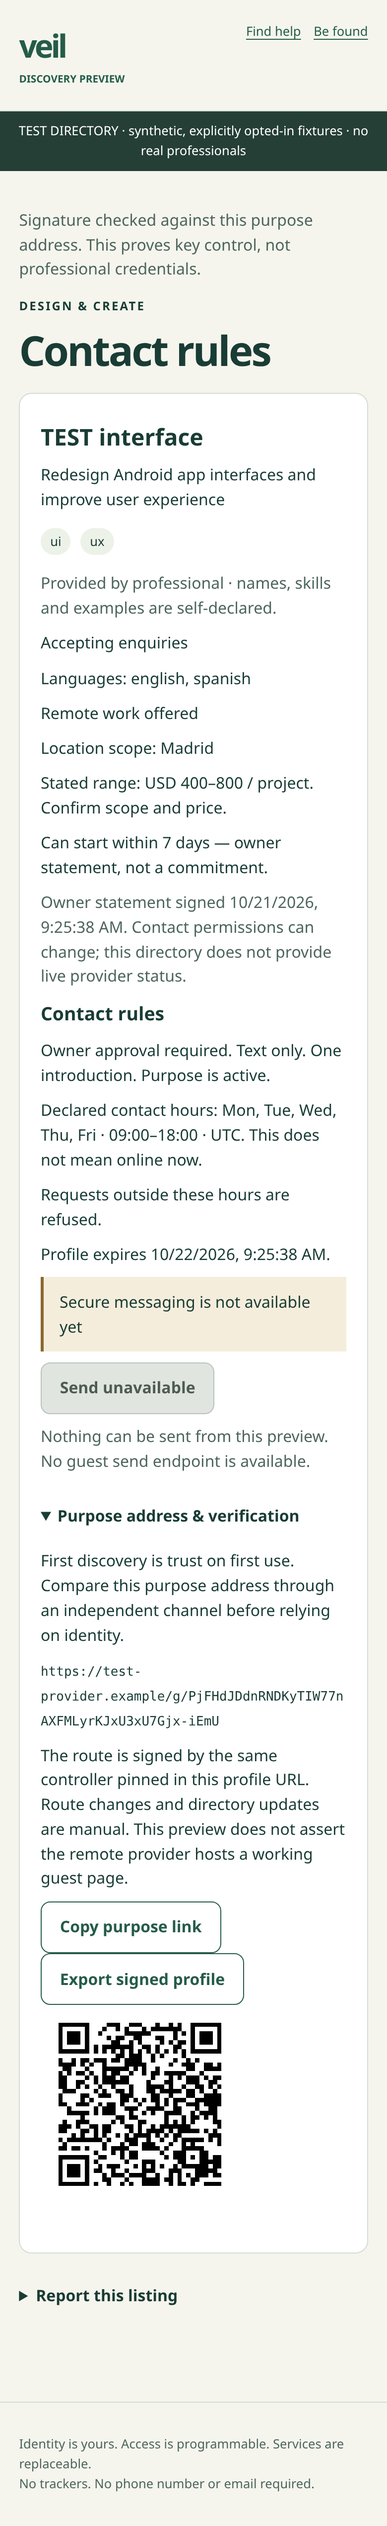
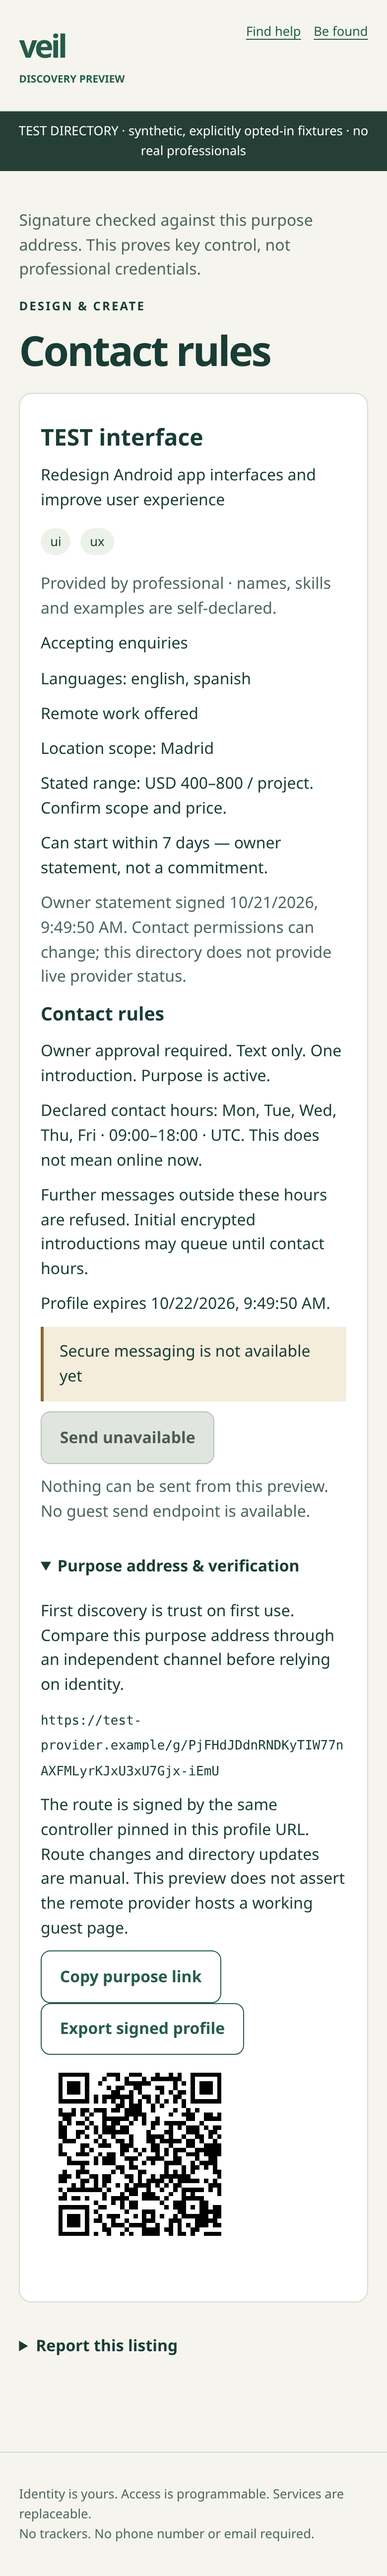
Clarify initial-introduction hours and record unrelated Orb CI failure

diff --git a/apps/veil/discovery/REVIEW.md b/apps/veil/discovery/REVIEW.md
@@ -52,3 +52,5 @@ This checklist records implementation review and executable evidence, not indepe
 Initial integration audit selected PR #8's exact head because it already contains PR #7 and the disabled guest verifier. No `AGENTS.md` existed. Initial test failures were not concealed: one test incorrectly reused a state revision across a visibility change (fixed fixture), five search judgments exposed general parsing shortcomings (documented in SEARCH), and the browser harness initially used an eval-style wait blocked by the intended CSP (fixed harness without weakening CSP). Toolchain provisioning required temporary writable Android/Gradle directories and a full JDK; PostgreSQL baseline tests correctly refused the initial wrongly named disposable DB, then passed in their required `veil_test` DB. None required weakening an application security control.
 
 Use [RUNBOOK](RUNBOOK.md), [schema](migrations/001_discovery.sql), committed test judgments and `.github/workflows/veil-discovery.yml`. CI is review evidence, never a public-release switch.
+
+The draft's unrelated Orb [verify run 39579543931](https://github.com/Soldsoul86/orb/actions/runs/39579543931) passed lint, build, independent-package compilation and tests, then failed **Hard exit demonstration** with `TypeError: event.risk.measured.toFixed is not a function` (job 119153433769). This matches the known PR #7/#8 baseline failure. The discovery diff does not touch its runtime packages or scripts. It has not been hidden, waived, or “fixed” by changing unrelated code.
